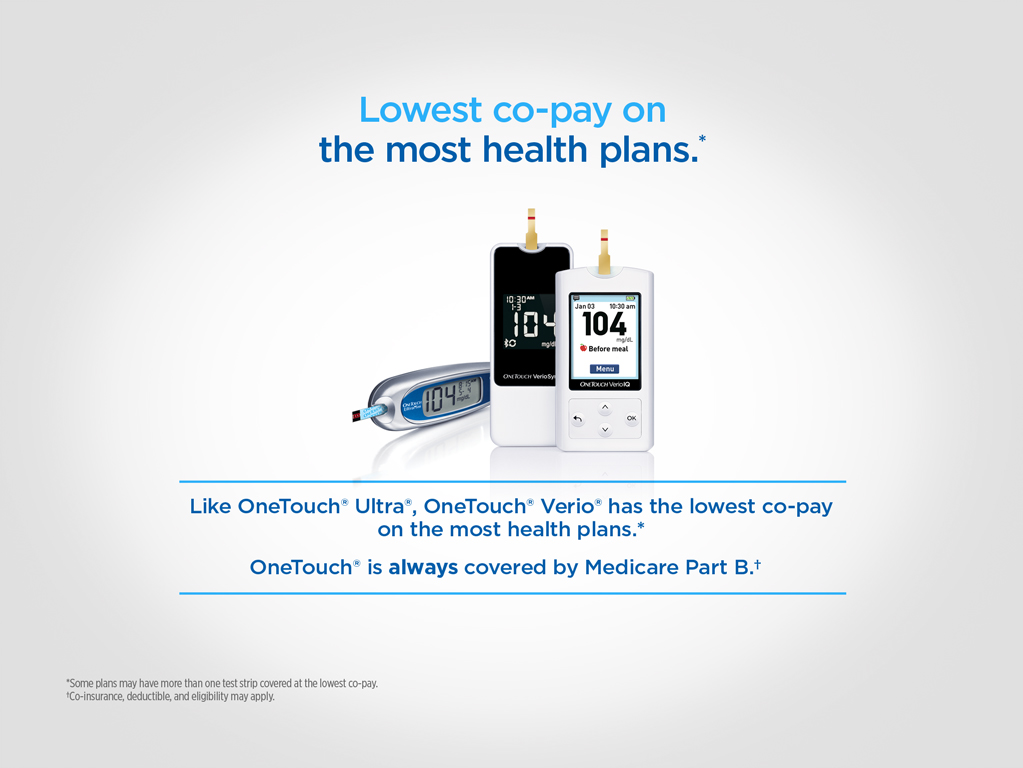
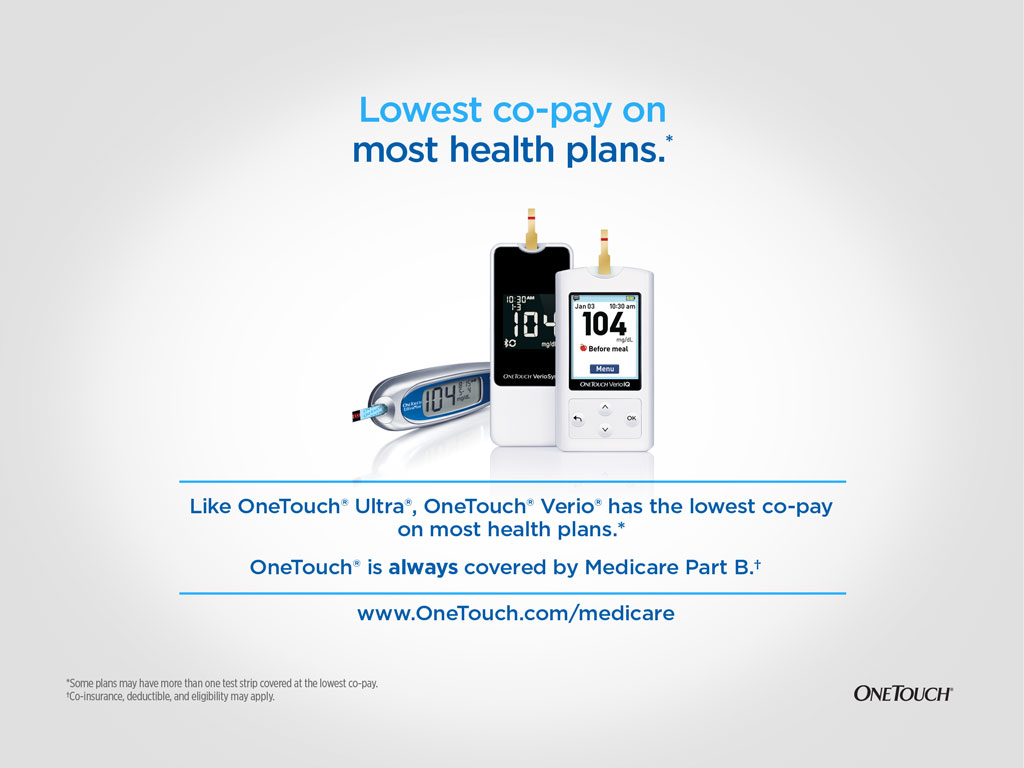
onetouch web link added to payer access

diff --git a/salesaid/pa/pa.html b/salesaid/pa/pa.html
@@ -1,43 +1,50 @@
 <!DOCTYPE html>
 <html lang="en">
-	<head>
-		<meta charset="utf-8"> 
-        <meta name="viewport" content="width=device-width, initial-scale=1,user-scalable=no" />
-        <meta name="format-detection" content="telephone=no"> 
-        <title>OneTouch</title>
-        
-        <link rel="stylesheet" href="res/css/type.css?v=34" />
-		<link rel="stylesheet" href="res/css/global.css?v=34" />
-        <link rel="stylesheet" href="res/css/5.0.css?v=34" />	
-        
-		<script src="res/javascript/jquery-1.8.3.min.js"></script>
-        <script src="res/javascript/move.min.js"></script>
-        
-		<script src="res/javascript/global.js?v=34"></script>
-        <script src="res/javascript/5.0.js?v=34"></script>
-        
-	</head>
-	<body>
- 
- 		<div class="animationLayer">
-        	<img class="contentImg hide" src="res/images/5.0/content.jpg" width="1024" height="768" />
-        </div>
-        
- 		<div class="contentLayer">     	
-        
-        	<header>
-				<nav class="right">
-					<img id="btn-home" src="res/images/global/btn-home.png" height="24" style="float:left; margin-right:10px;" />
-					<img id="btn-portfolio" src="res/images/global/btn-portfolio.png" height="24"  />
-				</nav>
-			</header>          
-            
-            <footer>
-                <img class="right" src="res/images/global/footer-logo.png" height="18" />
-            </footer>	
-            
-            <img src="res/images/global/btn-next.png" class="nav next" height="33" />	
-  
-  		</div>
-	</body>
+  <head>
+    <meta charset="utf-8"> 
+    <meta name="viewport" content="width=device-width, initial-scale=1,user-scalable=no" />
+    <meta name="format-detection" content="telephone=no"> 
+    <title>OneTouch</title>
+    
+    <link rel="stylesheet" href="res/css/type.css?v=34" />
+    <link rel="stylesheet" href="res/css/global.css?v=34" />
+    <link rel="stylesheet" href="res/css/5.0.css?v=34" />	
+    
+    <script src="res/javascript/jquery-1.8.3.min.js"></script>
+    <script src="res/javascript/move.min.js"></script>
+    
+    <script src="res/javascript/global.js?v=34"></script>
+    <script src="res/javascript/5.0.js?v=34"></script>
+    
+  </head>
+  <body>
+    
+    <div class="animationLayer">
+      <img class="contentImg hide" src="res/images/5.0/content.jpg" width="1024" height="768" />
+    </div>
+    
+    <div class="contentLayer">     	
+      
+      <header>
+	<nav class="right">
+	  <img id="btn-home" src="res/images/global/btn-home.png" height="24" style="float:left; margin-right:10px;" />
+	  <img id="btn-portfolio" src="res/images/global/btn-portfolio.png" height="24"  />
+	</nav>
+      </header>          
+      
+      <footer>
+
+      </footer>	
+      
+      <img src="res/images/global/btn-next.png" class="nav next" height="33" />	
+      <a href="http://www.onetouch.com/medicare" style="
+                                                        width: 400px;
+                                                        height: 50px;
+                                                        position: absolute;
+                                                        display: block;
+                                                        top: 540px;
+                                                        left: 260px;
+                                                        "> </a>  
+    </div>
+  </body>
 </html>
